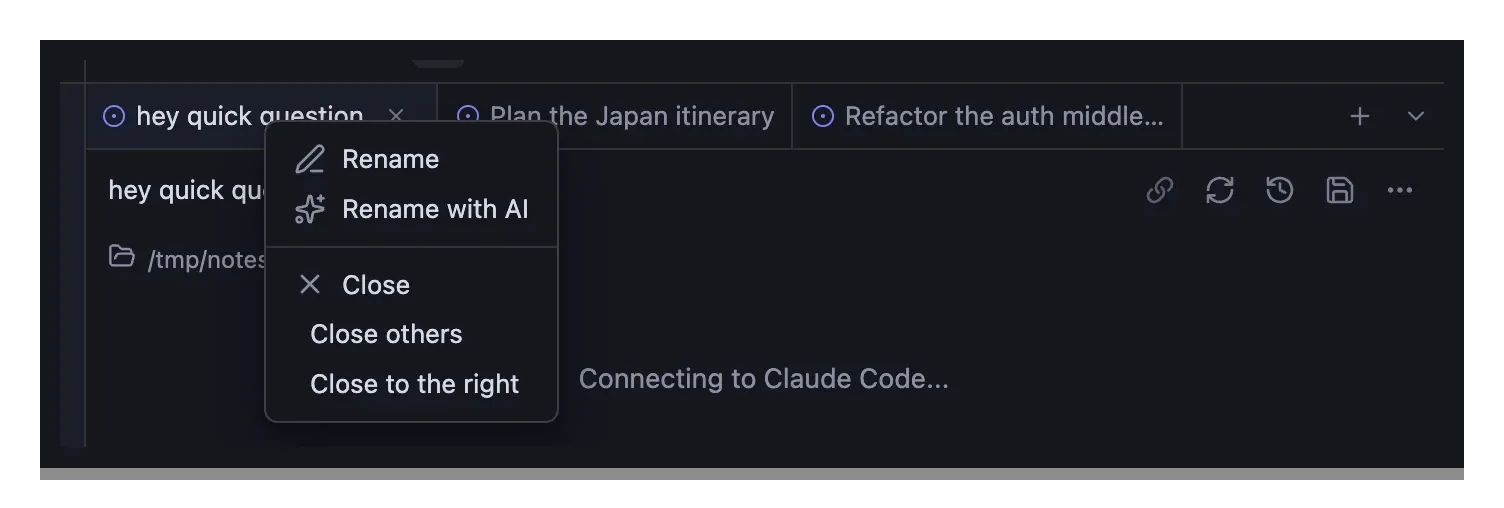
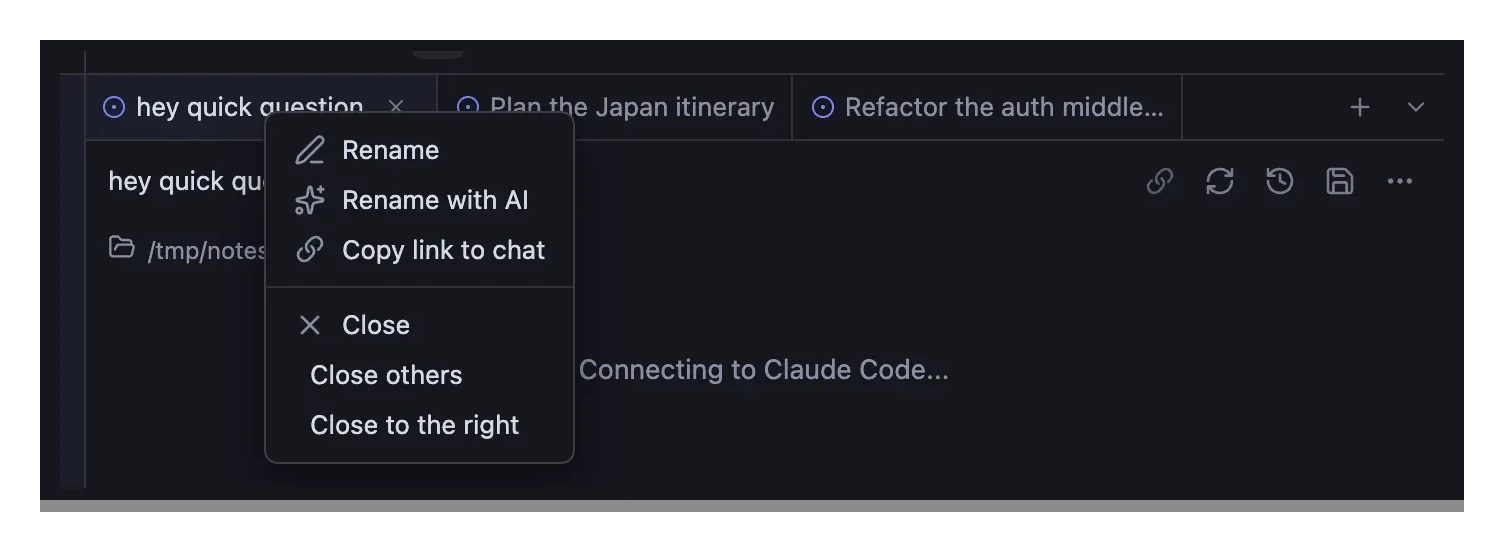
docs: capture the tab-menu shots for v2.5.0; defer the timestamp shots (#421)
- tab-ai-rename-menu recaptured and chat-link-menu captured. The tab menu
  grew with Copy link to chat (#406), so both crops are 460 px tall.
- chat-links.md embeds chat-link-menu.
- chat-timestamps and chat-timestamps-activity are removed from the
  manifest for now: the fixtures have no timestamped chat and no way to
  stage a running tool call. No docs page references them yet. They come
  back with that fixture work after the tag.

diff --git a/docs/usage/chat-links.md b/docs/usage/chat-links.md
@@ -6,6 +6,10 @@
 
 Right-click a chat's tab and choose **Copy link to chat**. It's in the menu whether your tabs sit on top or in the vertical column. The link is copied as a Markdown link named after the tab, so it reads well when you paste it into a note:
 
+<p align="center">
+  <img src="/images/chat-link-menu.webp" alt="Agent Console tab right-click menu with Copy link to chat listed below Rename with AI" />
+</p>
+
 ```markdown
 [Plan the Q3 offsite](obsidian://agent-console-chat?vault=My%20Vault&id=4f1c2a90-…)
 ```
